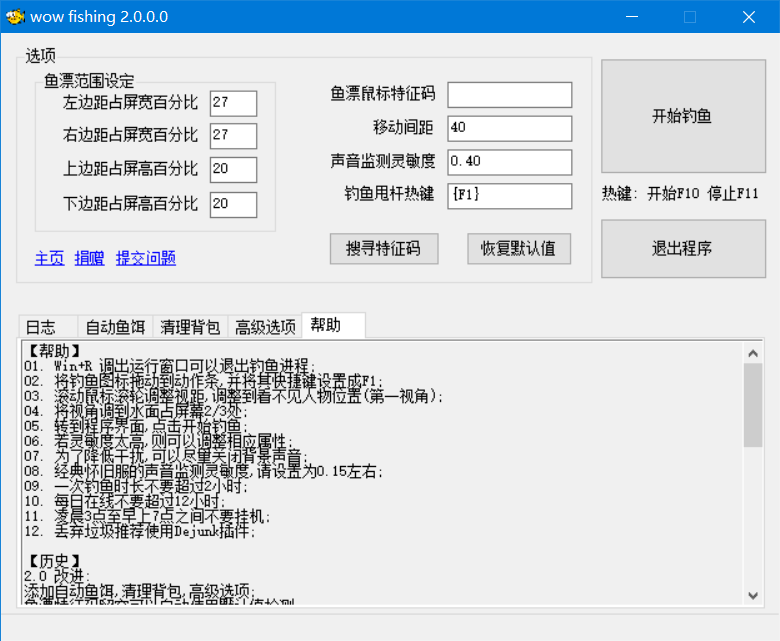
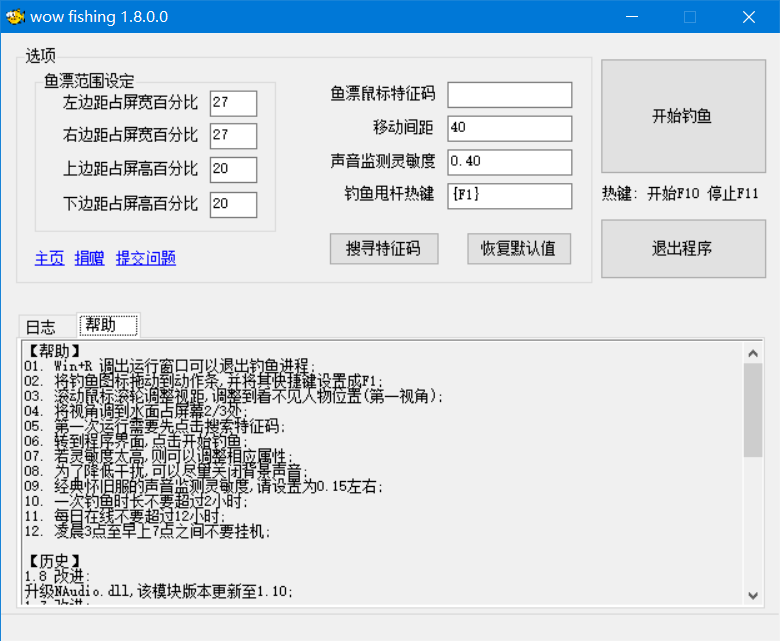
还原至1.8版本;

diff --git a/README.md b/README.md
@@ -15,6 +15,19 @@
 
 * [.Net Framework 4.0 下载地址](https://www.microsoft.com/zh-cn/download/details.aspx?id=17718);
 
+#### 自动鱼饵
+
+* v3版本开始同时支持怀旧服和最新版;
+* 自动鱼饵需要在[下载页面](https://gitee.com/milaoshu1020/wowfishing/releases)下载"自动鱼饵v(n).vbx"脚本;
+* 运行脚本需要系统已经安装了 [NScript](https://github.com/milaoshu1020/NScript)([下载地址](https://github.com/milaoshu1020/NScript/releases));
+* 把鱼饵放在最后1个背包的第1个背包格(就是平时放炉石的位置);
+* 双击自动鱼饵脚本文件即可运行;
+* 可以使用用记事本或者其他编辑器查看并编辑.vbx脚本文件;
+* 鱼饵脚本需要和钓鱼程序配合使用;
+* 按Win+R调出"运行"对话框可以立即结束脚本运行(推荐方式);
+* 退出魔兽世界可以结束脚本运行(10分钟检测1次,退出时有提示);
+* 使用任务管理器结束进程"wnscript.exe"亦可以结束脚本运行;
+
 #### 捐赠
 
 * [捐赠地址](DONATE.md)
